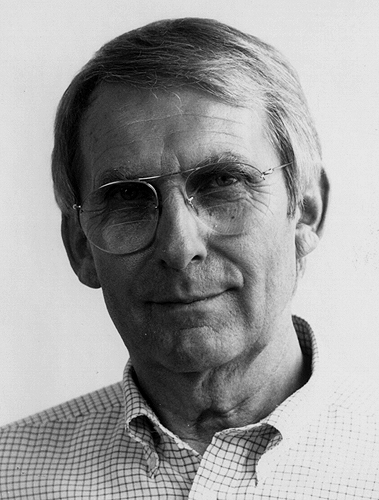
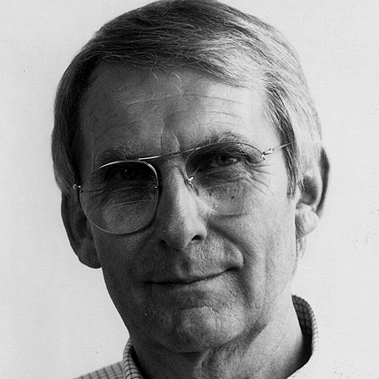
dynamically loading images for nodes - fixed #3
cutted images to squares

diff --git a/app.js b/app.js
@@ -104,7 +104,7 @@ d3.json("https://raw.githubusercontent.com/varusgarcia/Design-History-InfoVis/ma
      .attr("y", 0)
      .attr("height", circleRadius*2)
      .attr("width", circleRadius*2)
-     .attr("xlink:href", "test-db/images/otl_aicher.png");
+     .attr("xlink:href", function (d){ return "test-db/images/" + d.Vorname + "_" + d.Name + ".jpg" });
 
   // CIRLCES
   var circles = nodeBlock.append("circle")
